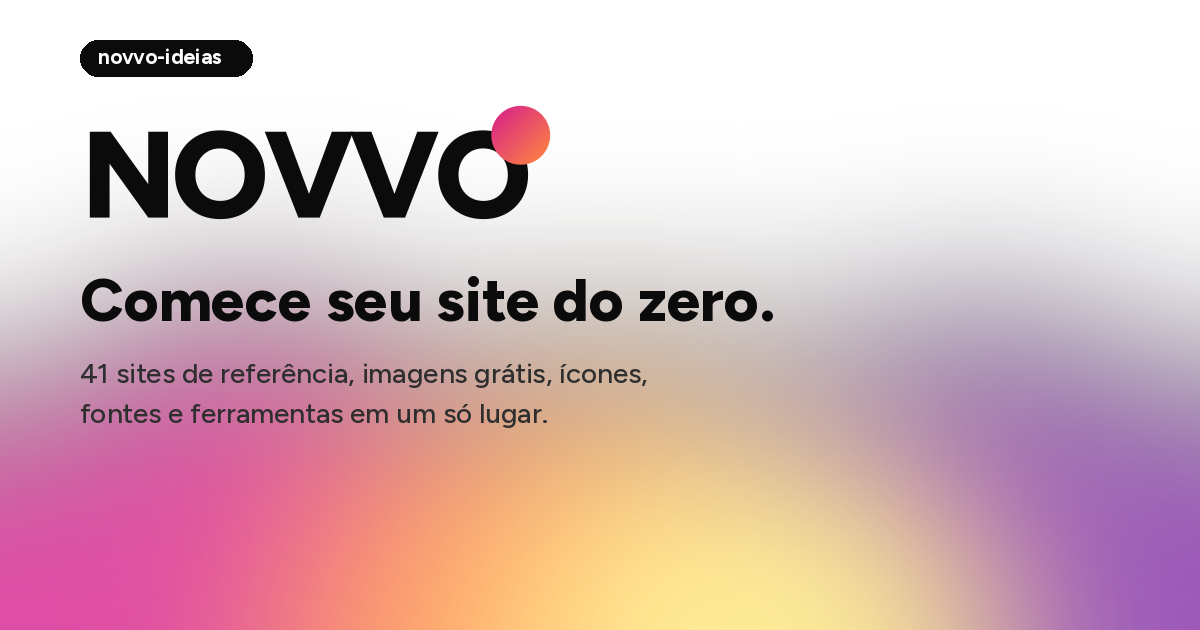
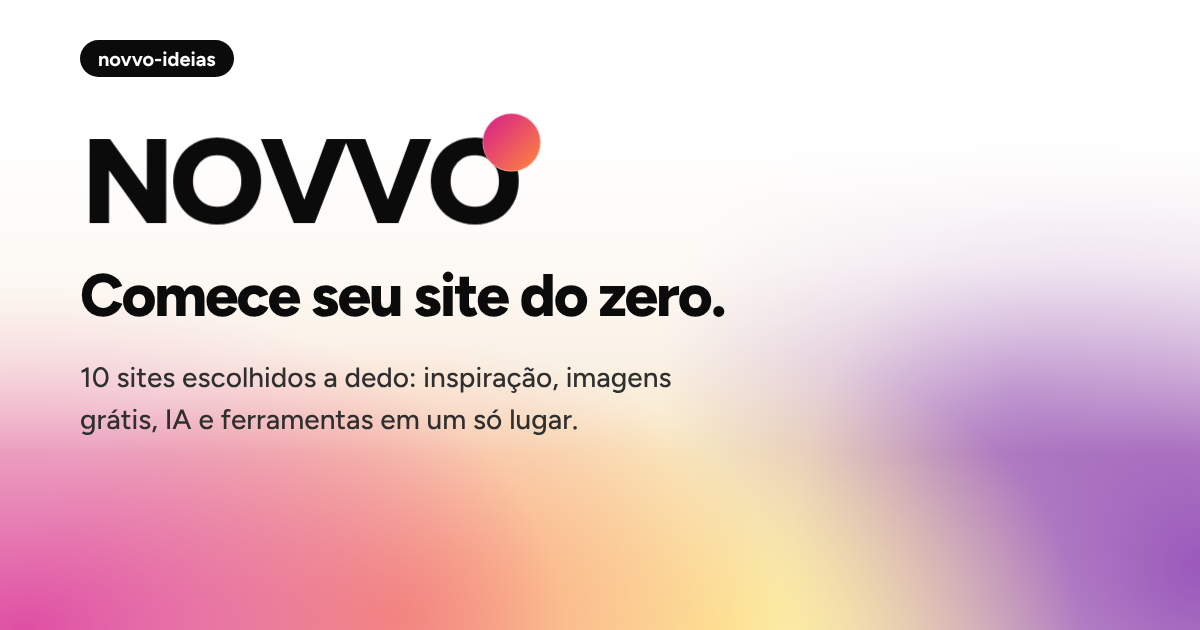
v2.1: fix Explorar button, accessibility fixes, changelog page, new share image
- Explorar a biblioteca now goes to the search bar and first cards
- Menu, chips and text links clear an active search and go to the section
- Better contrast on MCP/CUSTO labels, visible focus on search
- Cards visible without JavaScript; no truncated names on 320px screens
- Larger click areas on top menu and in-text links
- New changelog page (changelog.html) linked in the footer, plus CHANGELOG.md
- New og-image with updated text (10 sites)

Claude-Session: https://claude.ai/code/session_01TEUywxVoQkazD34RhfpMAs

diff --git a/changelog.html b/changelog.html
@@ -1,0 +1,170 @@
+<!DOCTYPE html>
+<html lang="pt-BR">
+<head>
+<meta charset="utf-8">
+<meta name="viewport" content="width=device-width, initial-scale=1">
+<title>Histórico de atualizações · NOVVO</title>
+<meta name="description" content="Tudo que foi adicionado, removido, corrigido e alterado no NOVVO a cada versão publicada.">
+<link rel="canonical" href="https://novvo-ideias.vercel.app/changelog.html">
+<link rel="icon" href="/favicon.svg" type="image/svg+xml">
+<link rel="icon" href="/favicon.ico" sizes="48x48">
+<link rel="apple-touch-icon" href="/apple-touch-icon.png">
+<link rel="preconnect" href="https://fonts.googleapis.com">
+<link href="https://fonts.googleapis.com/css2?family=Figtree:wght@400;500;600;700;800&family=Instrument+Serif:ital@0;1&display=swap" rel="stylesheet">
+<style>
+  :root{--space-1:4px;--space-2:8px;--space-3:16px;--space-4:24px;--space-5:32px;--space-6:48px;--space-7:64px;
+    --ink:#0B0B0B;--muted:#6E6E6E;--line:#ECECEC;--bg:#FFFFFF;--g1:#7A1FA2;--g2:#D61C8C;--g3:#F0577A;--g4:#FF8A3D;--g5:#FFE24D}
+  *{box-sizing:border-box;margin:0;padding:0}
+  html{scroll-behavior:smooth}
+  html,body{overflow-x:clip}
+  body{font-family:Figtree,system-ui,sans-serif;background:var(--bg);color:var(--ink);-webkit-font-smoothing:antialiased}
+  .serif{font-family:"Instrument Serif",Georgia,serif;font-style:italic;font-weight:400;letter-spacing:0}
+  .container{max-width:1120px;margin:0 auto;padding:0 32px}
+  a{color:inherit}
+  nav.top{display:flex;align-items:center;justify-content:space-between;height:88px;gap:var(--space-3)}
+  .brand{display:inline-flex;align-items:flex-start;gap:2px;font-weight:800;font-size:20px;letter-spacing:-.04em;text-decoration:none}
+  .brand .dot{width:10px;height:10px;border-radius:50%;background:linear-gradient(135deg,var(--g2),var(--g4));margin-top:-3px;box-shadow:0 0 0 2px var(--bg)}
+  .back{display:inline-flex;align-items:center;height:40px;border:1px solid var(--ink);border-radius:999px;padding:0 var(--space-4);font-size:11px;font-weight:600;letter-spacing:.05em;text-transform:uppercase;text-decoration:none;transition:background .2s,color .2s}
+  .back:hover{background:var(--ink);color:#fff}
+  .back:focus-visible,.ver a:focus-visible{outline:2px solid var(--ink);outline-offset:3px}
+  header.top{padding-block:var(--space-7) var(--space-6)}
+  h1{font-size:clamp(36px,6vw,64px);font-weight:600;letter-spacing:-.05em;line-height:1.05}
+  header.top p{max-width:560px;margin-top:var(--space-3);color:var(--muted);font-size:16px;line-height:1.6}
+  .versao{display:grid;grid-template-columns:200px minmax(0,1fr);gap:var(--space-5);padding:var(--space-5) 0 var(--space-6);border-top:1px solid var(--ink)}
+  .ver{position:relative}
+  .ver .tag{display:inline-block;font-size:28px;line-height:1.1;letter-spacing:-.03em}
+  .ver time{display:block;margin-top:var(--space-1);font-size:13px;color:var(--muted)}
+  .ver .atual{display:inline-block;margin-top:var(--space-2);font-size:11px;font-weight:700;letter-spacing:.06em;text-transform:uppercase;padding:4px 10px;border-radius:999px;color:#fff;background:linear-gradient(120deg,var(--g2),var(--g4))}
+  .ver a{display:block;margin-top:var(--space-3);font-size:12px;color:var(--muted);text-underline-offset:3px}
+  .ver a:hover{color:var(--ink)}
+  h2{font-size:20px;font-weight:600;letter-spacing:-.03em;line-height:1.25;margin-bottom:var(--space-4)}
+  .grupo{margin-bottom:var(--space-4)}
+  .grupo h3{display:inline-block;font-size:11px;font-weight:700;letter-spacing:.08em;text-transform:uppercase;padding:4px 12px;border-radius:999px;margin-bottom:var(--space-3)}
+  .add h3{background:#E3F6EA;color:#14653A}.rem h3{background:#FDE8E8;color:#A3191F}.fix h3{background:#E4EEFF;color:#1F4FB4}.alt h3{background:#FFF0D6;color:#8A4B00}
+  .grupo ul{list-style:none;display:grid;gap:var(--space-2)}
+  .grupo li{position:relative;padding-left:var(--space-4);font-size:15px;line-height:1.55;color:#262626}
+  .grupo li::before{content:"";position:absolute;left:6px;top:.62em;width:6px;height:6px;border-radius:50%;background:linear-gradient(135deg,var(--g2),var(--g4))}
+  footer{background:linear-gradient(100deg,#5e1480,#a8157a);color:rgba(255,255,255,.75);font-size:12px;margin-top:var(--space-6)}
+  footer .container{display:flex;justify-content:space-between;padding-top:var(--space-4);padding-bottom:var(--space-4);gap:var(--space-3);flex-wrap:wrap}
+  footer a{color:#fff;text-underline-offset:3px}
+  @media (max-width:720px){
+    .container{padding-left:var(--space-3);padding-right:var(--space-3)}
+    nav.top{height:64px}
+    header.top{padding-block:var(--space-6) var(--space-5)}
+    .versao{grid-template-columns:1fr;gap:var(--space-4)}
+    .ver .tag{font-size:24px}
+  }
+</style>
+</head>
+<body>
+  <div class="container">
+    <nav class="top">
+      <a class="brand" href="/" aria-label="NOVVO, voltar ao site">NOVVO<span class="dot"></span></a>
+      <a class="back" href="/">Voltar ao site</a>
+    </nav>
+  </div>
+
+  <main>
+    <header class="top container">
+      <h1>Histórico de <span class="serif">atualizações</span></h1>
+      <p>Tudo que foi adicionado, removido, corrigido e alterado no NOVVO, versão por versão, da mais nova para a mais antiga.</p>
+    </header>
+
+    <div class="container">
+
+      <section class="versao" id="v2-1">
+        <div class="ver"><span class="tag serif">v2.1</span><time datetime="2026-11-22">22/11/2026</time><span class="atual">Mais recente</span></div>
+        <div>
+          <h2>Ajustes de uso, acessibilidade e compartilhamento</h2>
+          <div class="grupo add"><h3>Adicionado</h3><ul>
+            <li>Esta página de histórico, com link no rodapé do site.</li>
+            <li>Nova imagem de compartilhamento, com o texto atualizado (10 sites).</li>
+            <li>Contorno visível na busca quando ela é usada pelo teclado.</li>
+            <li>Os cards agora aparecem mesmo em navegadores com JavaScript desligado.</li>
+          </ul></div>
+          <div class="grupo fix"><h3>Corrigido</h3><ul>
+            <li>O botão "Explorar a biblioteca" agora leva direto à barra de busca e aos primeiros cards. Antes parava no texto de apresentação, com os cards fora da tela.</li>
+            <li>Clicar no menu, nos chips ou nos links do texto durante uma busca limpa a busca e leva até a seção. Antes não acontecia nada.</li>
+            <li>Rótulos "MCP", "CUSTO" e "Sem MCP oficial" com contraste maior, mais fáceis de ler.</li>
+            <li>Nomes como "Awwwards" e "Midjourney" não ficam mais cortados em telas bem pequenas.</li>
+          </ul></div>
+          <div class="grupo alt"><h3>Alterado</h3><ul>
+            <li>Área de clique maior nos links do menu do topo e nos links dentro dos textos.</li>
+          </ul></div>
+        </div>
+      </section>
+
+      <section class="versao" id="v2-0">
+        <div class="ver"><span class="tag serif">v2.0</span><time datetime="2026-11-22">22/11/2026</time><a href="https://github.com/Cronos-noble/Novvo-ideias/compare/f4bf531...383e14f" target="_blank" rel="noopener noreferrer">Ver no GitHub ↗</a></div>
+        <div>
+          <h2>Curadoria enxuta, favicons reais e glossário</h2>
+          <div class="grupo add"><h3>Adicionado</h3><ul>
+            <li>Higgsfield, na categoria de Ilustrações e Vídeos com IA.</li>
+            <li>Favicon real de cada site listado.</li>
+            <li>Glossário com 10 termos que aparecem no site, como MCP, agentes de IA, UI e UX, layout e mockup.</li>
+            <li>Bloco "Para que serve?" explicando a proposta do site.</li>
+            <li>Crédito "Criado por @_wellingtongg" no rodapé.</li>
+            <li>Novo favicon do site: "N" preto com a bolinha gradiente da marca.</li>
+            <li>Bolinha gradiente, no estilo de notificação, ao lado do NOVVO no menu.</li>
+            <li>Link "O que é MCP?" na legenda dos cards.</li>
+          </ul></div>
+          <div class="grupo rem"><h3>Removido</h3><ul>
+            <li>32 sites: Behance, Land-book, Godly, Lapa Ninja, SiteInspire, Minimal Gallery, Pixabay, Burst, Kaboompics, StockSnap, Openverse, Freepik, unDraw, Storyset, Blush, 3dicons, Shots, remove.bg, Lucide, Phosphor, Heroicons, Tabler Icons, Iconoir, Google Fonts, Fontshare, Fontpair, Typewolf, Coolors, Realtime Colors, Happy Hues, Haikei e CSS Gradient.</li>
+            <li>As categorias Ícones, Fontes e Cores.</li>
+            <li>Os passos 1, 2 e 3 da apresentação.</li>
+            <li>O celular 3D do topo e a biblioteca Three.js que o animava. O código da página ficou cerca de 66% menor.</li>
+          </ul></div>
+          <div class="grupo fix"><h3>Corrigido</h3><ul>
+            <li>Ao clicar nos links do menu do topo, o título da seção ficava cortado atrás da barra de busca, no computador e no celular.</li>
+            <li>Os números das seções (01, 02…) deixavam os títulos desalinhados.</li>
+          </ul></div>
+          <div class="grupo alt"><h3>Alterado</h3><ul>
+            <li>De 41 sites em 7 categorias para 10 sites em 4 categorias.</li>
+            <li>"Ilustrações, 3D e IA" agora se chama "Ilustrações e Vídeos com IA".</li>
+            <li>Cabeçalho mais curto, com o texto de apoio em uma linha só.</li>
+            <li>"NOVVO" gigante da faixa final menor.</li>
+            <li>Legenda "MCP para IA" virou "MCP para agentes de IA".</li>
+            <li>Menu do topo: saíram Ícones, Fontes e Cores, entraram Ilustrações, Ferramentas e Glossário.</li>
+            <li>Grade dos cards de 5 para 4 colunas.</li>
+            <li>Rótulos "MCP" e "CUSTO" maiores (de 9,5 para 11 pixels).</li>
+          </ul></div>
+        </div>
+      </section>
+
+      <section class="versao" id="v1-1">
+        <div class="ver"><span class="tag serif">v1.1</span><time datetime="2026-11-17">17/11/2026, noite</time><a href="https://github.com/Cronos-noble/Novvo-ideias/compare/b3f76f6...f4bf531" target="_blank" rel="noopener noreferrer">Ver no GitHub ↗</a></div>
+        <div>
+          <h2>Pré-visualização ao compartilhar o link</h2>
+          <div class="grupo add"><h3>Adicionado</h3><ul>
+            <li>Imagem e texto de pré-visualização ao colar o link em redes sociais e mensageiros.</li>
+            <li>Descrição do site para os buscadores e endereço canônico.</li>
+          </ul></div>
+          <div class="grupo rem"><h3>Removido</h3><ul>
+            <li>Botão "Começar" do menu superior.</li>
+            <li>Texto "41 sites · pressione / para buscar" do rodapé.</li>
+          </ul></div>
+          <div class="grupo alt"><h3>Alterado</h3><ul>
+            <li>Texto do rodapé: de "Biblioteca para começar sites" para "Do zero ao Rascunho".</li>
+          </ul></div>
+        </div>
+      </section>
+
+      <section class="versao" id="v1-0">
+        <div class="ver"><span class="tag serif">v1.0</span><time datetime="2026-11-17">17/11/2026, tarde</time><a href="https://github.com/Cronos-noble/Novvo-ideias/commit/b3f76f6" target="_blank" rel="noopener noreferrer">Ver no GitHub ↗</a></div>
+        <div>
+          <h2>Primeira publicação</h2>
+          <div class="grupo add"><h3>Adicionado</h3><ul>
+            <li>Site NOVVO com 41 sites de referência em 7 categorias: Inspiração, Imagens, Ilustrações, Ícones, Fontes, Cores e Ferramentas.</li>
+            <li>Busca com atalho "/" e chips de atalho para cada categoria.</li>
+            <li>Legenda de MCP e custo em cada card.</li>
+            <li>Celular 3D no topo e faixa final "Seu Próximo Site Começa Hoje".</li>
+          </ul></div>
+        </div>
+      </section>
+
+    </div>
+  </main>
+
+  <footer><div class="container"><span>© NOVVO · Do zero ao Rascunho</span><span>Criado por <a href="https://x.com/_wellingtongg" target="_blank" rel="noopener noreferrer">@_wellingtongg</a></span></div></footer>
+</body>
+</html>

diff --git a/index.html b/index.html
@@ -12,14 +12,14 @@
 <meta property="og:title" content="NOVVO · Comece seu site do zero">
 <meta property="og:description" content="10 sites escolhidos a dedo: inspiração, imagens grátis, IA e ferramentas em um só lugar.">
 <meta property="og:url" content="https://novvo-ideias.vercel.app/">
-<meta property="og:image" content="https://novvo-ideias.vercel.app/og-image.png">
+<meta property="og:image" content="https://novvo-ideias.vercel.app/og-image.png?v=2">
 <meta property="og:image:width" content="1200">
 <meta property="og:image:height" content="630">
 <meta property="og:image:alt" content="NOVVO: comece seu site do zero">
 <meta name="twitter:card" content="summary_large_image">
 <meta name="twitter:title" content="NOVVO · Comece seu site do zero">
 <meta name="twitter:description" content="10 sites escolhidos a dedo: inspiração, imagens grátis, IA e ferramentas em um só lugar.">
-<meta name="twitter:image" content="https://novvo-ideias.vercel.app/og-image.png">
+<meta name="twitter:image" content="https://novvo-ideias.vercel.app/og-image.png?v=2">
 <link rel="icon" href="/favicon.svg" type="image/svg+xml">
 <link rel="icon" href="/favicon.ico" sizes="48x48">
 <link rel="apple-touch-icon" href="/apple-touch-icon.png">
@@ -42,7 +42,7 @@
   .brand{display:inline-flex;align-items:flex-start;gap:2px;font-weight:800;font-size:20px;letter-spacing:-.04em;text-decoration:none}
   .brand .dot{width:10px;height:10px;border-radius:50%;background:linear-gradient(135deg,var(--g2),var(--g4));margin-top:-3px;box-shadow:0 0 0 2px var(--bg)}
   .links{display:flex;gap:var(--space-4);font-size:13px}
-  .links a{text-decoration:none;opacity:.75;transition:opacity .2s}
+  .links a{text-decoration:none;opacity:.75;transition:opacity .2s;padding:12px 4px;margin:0 -4px}
   .links a:hover{opacity:1;text-decoration:underline;text-underline-offset:4px}
   .pill{display:inline-flex;align-items:center;gap:var(--space-2);height:40px;border:1px solid var(--ink);border-radius:999px;padding:0 var(--space-4);font-size:11px;font-weight:600;letter-spacing:.05em;text-transform:uppercase;text-decoration:none;background:transparent;cursor:pointer;color:var(--ink);transition:background .25s,color .25s;white-space:nowrap}
   .pill svg{width:14px;height:14px;transition:transform .25s}
@@ -66,6 +66,7 @@
   .toolbar{position:sticky;top:var(--nav-h);z-index:10;background:rgba(255,255,255,.9);backdrop-filter:blur(10px);-webkit-backdrop-filter:blur(10px);padding:var(--space-3) 0;border-bottom:1px solid var(--line)}
   .toolbar .container{display:flex;gap:var(--space-3);align-items:center;flex-wrap:wrap}
   .search{display:flex;align-items:center;gap:var(--space-2);height:40px;border:1px solid var(--ink);border-radius:999px;padding:0 var(--space-3);flex:0 1 296px;min-width:224px;background:#fff}
+  .search:focus-within{box-shadow:0 0 0 3px rgba(11,11,11,.18)}
   .search svg{width:16px;height:16px;flex:none}
   .search input{border:0;outline:0;font:inherit;font-size:14px;width:100%;background:transparent;color:var(--ink)}
   .chips{display:flex;align-items:center;gap:var(--space-2);overflow-x:auto;scrollbar-width:none;flex:1}
@@ -94,12 +95,12 @@
   .item small{display:block;margin-bottom:var(--space-3);font-size:13px;line-height:1.55;color:var(--muted)}
   .meta{display:flex;flex-direction:column;gap:var(--space-1);align-self:start;padding-top:var(--space-2);border-top:1px dashed var(--line)}
   .meta .row{display:grid;grid-template-columns:48px 1fr;gap:var(--space-2);align-items:baseline;font-size:12px;line-height:1.4}
-  .meta .k{font-size:11px;font-weight:700;letter-spacing:.08em;text-transform:uppercase;color:#A3A3A3}
+  .meta .k{font-size:11px;font-weight:700;letter-spacing:.08em;text-transform:uppercase;color:#767676}
   .meta .v{color:#3A3A3A;font-weight:500}
   .meta .v i{display:inline-block;width:8px;height:8px;border-radius:50%;margin-right:var(--space-2);vertical-align:1px;background:#CFCFCF}
   .meta .mcp-of{color:#A1125F}.meta .mcp-of i{background:linear-gradient(135deg,var(--g2),var(--g4))}
   .meta .mcp-te i{background:#F2B24A}
-  .meta .mcp-no{color:#8A8A8A}
+  .meta .mcp-no{color:#6E6E6E}
   .legend{display:flex;align-items:center;gap:8px;flex-wrap:wrap;font-size:12px;line-height:16px;color:var(--muted);padding-top:32px}
   .legend b{color:var(--ink);font-weight:600;margin-right:8px}
   .legend span{display:inline-flex;align-items:center;gap:8px;height:32px;padding:0 var(--space-3);border:1px solid var(--line);border-radius:999px;background:#fff}
@@ -113,7 +114,8 @@
   .about h3{font-size:30px;font-weight:600;letter-spacing:-.035em;line-height:1.1}
   .about p{font-size:15px;line-height:1.6;color:var(--muted)}.about p+p{margin-top:var(--space-3)}
   .about a,.legend .gl{color:var(--ink);text-underline-offset:4px}
-  .legend .gl{font-size:12px;margin-left:var(--space-2)}
+  .legend .gl{font-size:12px;margin-left:var(--space-2);padding:8px 0}
+  .about a{padding:4px 0}
   .glossario{padding-top:var(--space-7)}
   .terms{display:grid;grid-template-columns:repeat(2,minmax(0,1fr));gap:var(--space-4) var(--space-5)}
   .terms>div{border-top:1px dashed var(--line);padding-top:var(--space-3)}
@@ -147,7 +149,9 @@
     .cat-head{grid-template-columns:auto 1fr;gap:var(--space-3)}.cnt{display:none}.num{font-size:42px}.cat-head h3{font-size:24px}
   }
   @media (prefers-reduced-motion:reduce){.item{opacity:1;transform:none;transition:none}html{scroll-behavior:auto}}
+  @media (max-width:360px){.item .arrow{display:none}}
 </style>
+<noscript><style>.item{opacity:1;transform:none}</style></noscript>
 </head>
 <body>
   <div class="navwrap" id="navwrap">
@@ -164,7 +168,7 @@
       <span class="kicker serif">Do zero ao primeiro rascunho.</span>
       <h1>Todo Site Bom<br>Começa Aqui</h1>
       <p>Inspiração, imagens, IA e ferramentas num lugar só.</p>
-      <a class="pill" href="#biblioteca">Explorar a biblioteca <svg viewBox="0 0 24 24"><path d="M5 12h14M13 6l6 6-6 6" fill="none" stroke="currentColor" stroke-width="2" stroke-linecap="round" stroke-linejoin="round"/></svg></a>
+      <a class="pill" href="#inspiracao">Explorar a biblioteca <svg viewBox="0 0 24 24"><path d="M5 12h14M13 6l6 6-6 6" fill="none" stroke="currentColor" stroke-width="2" stroke-linecap="round" stroke-linejoin="round"/></svg></a>
     </section>
 
     <section class="container" id="biblioteca">
@@ -267,7 +271,7 @@
       </div>
     </section>
   </main>
-  <footer><div class="container"><span>© NOVVO · Do zero ao Rascunho</span><span>Criado por <a href="https://x.com/_wellingtongg" target="_blank" rel="noopener noreferrer">@_wellingtongg</a></span></div></footer>
+  <footer><div class="container"><span>© NOVVO · Do zero ao Rascunho · <a href="changelog.html">Histórico de atualizações</a></span><span>Criado por <a href="https://x.com/_wellingtongg" target="_blank" rel="noopener noreferrer">@_wellingtongg</a></span></div></footer>
 
 <script>
   const items=[...document.querySelectorAll('.item')];
@@ -298,8 +302,9 @@
     if(innerHeight+scrollY>=document.documentElement.scrollHeight-4&&vis.length){const last=vis[vis.length-1];if(last.getBoundingClientRect().top<innerHeight)cur=last}
     if(cur)setActive(cur.id);else chips.forEach(c=>c.classList.remove('on'));
   }
-  chips.forEach(c=>c.addEventListener('click',e=>{
+  document.querySelectorAll('.chip,.links a,.about a,.legend .gl,.hero .pill').forEach(c=>c.addEventListener('click',e=>{
     e.preventDefault();const id=c.getAttribute('href').slice(1);const sec=document.getElementById(id);
+    if(sec&&sec.style.display==='none'&&q.value){q.value='';q.dispatchEvent(new Event('input'))}
     if(!sec||sec.style.display==='none')return;
     lockId=id;setActive(id);clearTimeout(lockTimer);lockTimer=setTimeout(()=>{lockId=null},1200);
     const head=sec.querySelector('.cat-head')||sec;const stick=(parseFloat(getComputedStyle(bar).top)||0)+bar.offsetHeight;const y=head.getBoundingClientRect().top+scrollY-stick-24;

diff --git a/CHANGELOG.md b/CHANGELOG.md
@@ -1,0 +1,80 @@
+# Histórico de atualizações do NOVVO
+
+Cada versão corresponde a uma publicação do site. A versão mais nova fica no topo.
+Página no ar: https://novvo-ideias.vercel.app/changelog.html
+
+## v2.1 · 22/11/2026 · Ajustes de uso, acessibilidade e compartilhamento
+
+**Adicionado**
+- Página de histórico (`changelog.html`), com link no rodapé do site.
+- Nova imagem de compartilhamento, com o texto atualizado (10 sites).
+- Contorno visível na busca quando ela é usada pelo teclado.
+- Os cards aparecem mesmo em navegadores com JavaScript desligado.
+
+**Corrigido**
+- O botão "Explorar a biblioteca" leva direto à barra de busca e aos primeiros cards. Antes parava no texto de apresentação, com os cards fora da tela.
+- Clicar no menu, nos chips ou nos links do texto durante uma busca limpa a busca e leva até a seção. Antes não acontecia nada.
+- Rótulos "MCP", "CUSTO" e "Sem MCP oficial" com contraste maior.
+- Nomes como "Awwwards" e "Midjourney" não ficam mais cortados em telas bem pequenas.
+
+**Alterado**
+- Área de clique maior nos links do menu do topo e nos links dentro dos textos.
+
+## v2.0 · 22/11/2026 · Curadoria enxuta, favicons reais e glossário
+
+[Ver mudanças no GitHub](https://github.com/Cronos-noble/Novvo-ideias/compare/f4bf531...383e14f) · [Pull request #1](https://github.com/Cronos-noble/Novvo-ideias/pull/1)
+
+**Adicionado**
+- Higgsfield, na categoria Ilustrações e Vídeos com IA.
+- Favicon real de cada site listado.
+- Glossário com 10 termos que aparecem no site.
+- Bloco "Para que serve?".
+- Crédito "Criado por @_wellingtongg" no rodapé.
+- Novo favicon do site: "N" preto com a bolinha gradiente da marca.
+- Bolinha gradiente, no estilo de notificação, ao lado do NOVVO no menu.
+- Link "O que é MCP?" na legenda dos cards.
+
+**Removido**
+- 32 sites: Behance, Land-book, Godly, Lapa Ninja, SiteInspire, Minimal Gallery, Pixabay, Burst, Kaboompics, StockSnap, Openverse, Freepik, unDraw, Storyset, Blush, 3dicons, Shots, remove.bg, Lucide, Phosphor, Heroicons, Tabler Icons, Iconoir, Google Fonts, Fontshare, Fontpair, Typewolf, Coolors, Realtime Colors, Happy Hues, Haikei e CSS Gradient.
+- As categorias Ícones, Fontes e Cores.
+- Os passos 1, 2 e 3 da apresentação.
+- O celular 3D do topo e a biblioteca Three.js (a página ficou cerca de 66% menor).
+
+**Corrigido**
+- Ao clicar nos links do menu do topo, o título da seção ficava cortado atrás da barra de busca.
+- Os números das seções (01, 02…) deixavam os títulos desalinhados.
+
+**Alterado**
+- De 41 sites em 7 categorias para 10 sites em 4 categorias.
+- "Ilustrações, 3D e IA" agora é "Ilustrações e Vídeos com IA".
+- Cabeçalho mais curto, com o texto de apoio em uma linha.
+- "NOVVO" gigante da faixa final menor.
+- Legenda "MCP para IA" virou "MCP para agentes de IA".
+- Menu do topo: saíram Ícones, Fontes e Cores, entraram Ilustrações, Ferramentas e Glossário.
+- Grade dos cards de 5 para 4 colunas.
+- Rótulos "MCP" e "CUSTO" maiores (de 9,5 para 11 pixels).
+
+## v1.1 · 17/11/2026 (noite) · Pré-visualização ao compartilhar o link
+
+[Ver mudanças no GitHub](https://github.com/Cronos-noble/Novvo-ideias/compare/b3f76f6...f4bf531)
+
+**Adicionado**
+- Imagem e texto de pré-visualização ao colar o link em redes sociais e mensageiros.
+- Descrição do site para os buscadores e endereço canônico.
+
+**Removido**
+- Botão "Começar" do menu superior.
+- Texto "41 sites · pressione / para buscar" do rodapé.
+
+**Alterado**
+- Texto do rodapé: de "Biblioteca para começar sites" para "Do zero ao Rascunho".
+
+## v1.0 · 17/11/2026 (tarde) · Primeira publicação
+
+[Ver commit no GitHub](https://github.com/Cronos-noble/Novvo-ideias/commit/b3f76f6)
+
+**Adicionado**
+- Site NOVVO com 41 sites de referência em 7 categorias: Inspiração, Imagens, Ilustrações, Ícones, Fontes, Cores e Ferramentas.
+- Busca com atalho "/" e chips de atalho para cada categoria.
+- Legenda de MCP e custo em cada card.
+- Celular 3D no topo e faixa final "Seu Próximo Site Começa Hoje".
